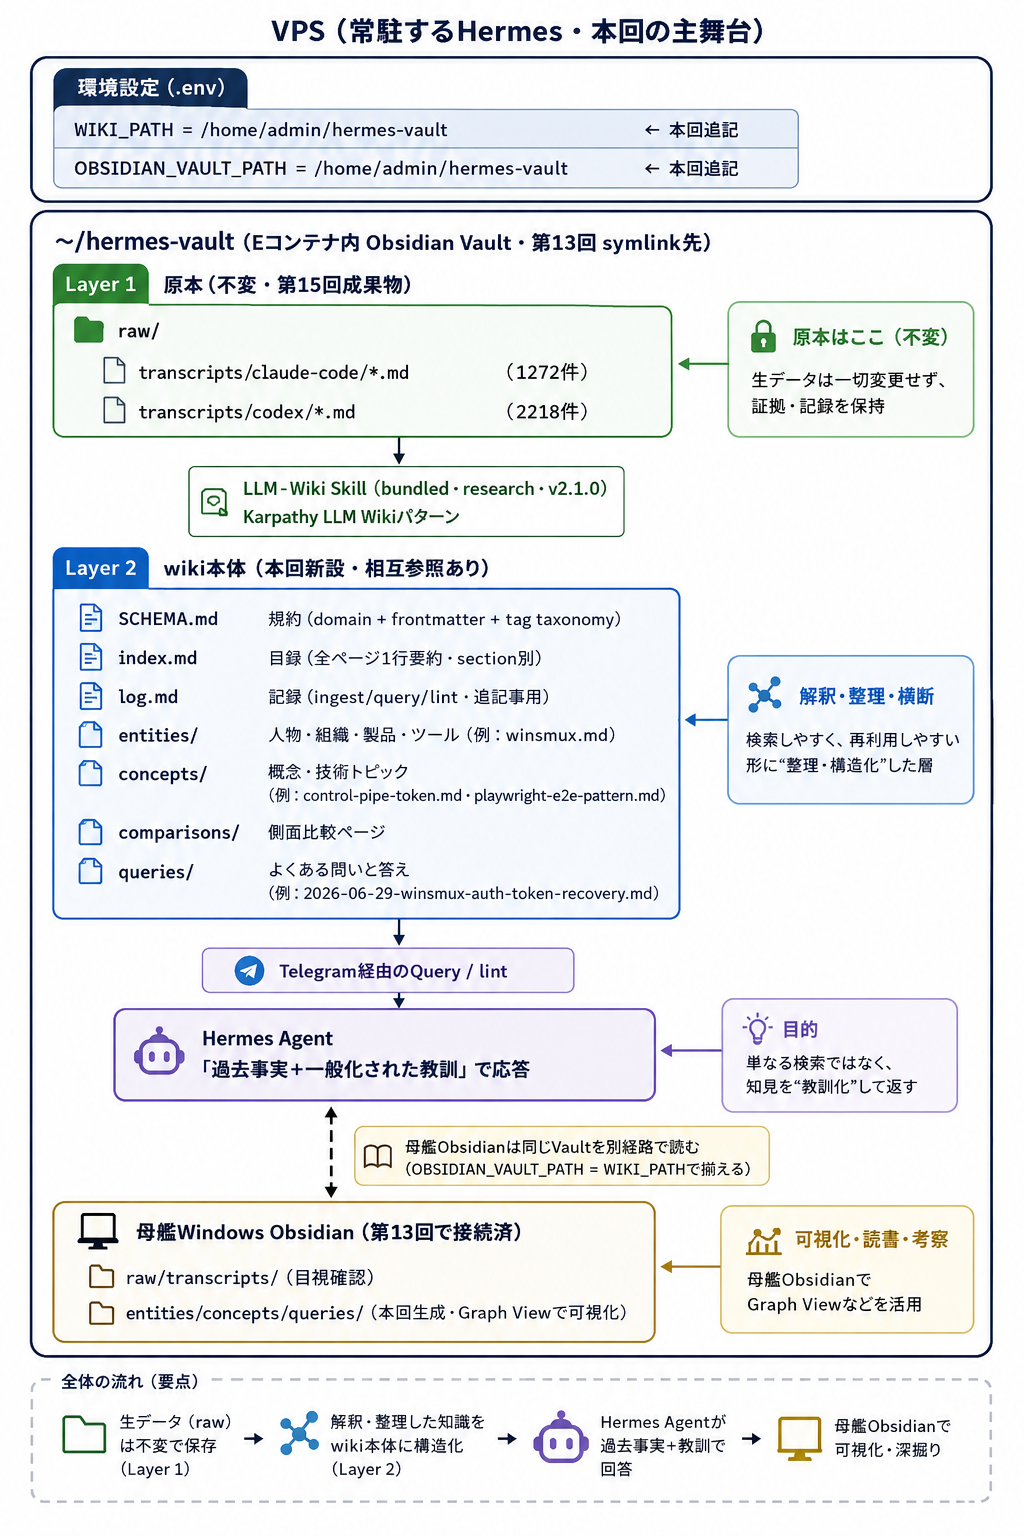
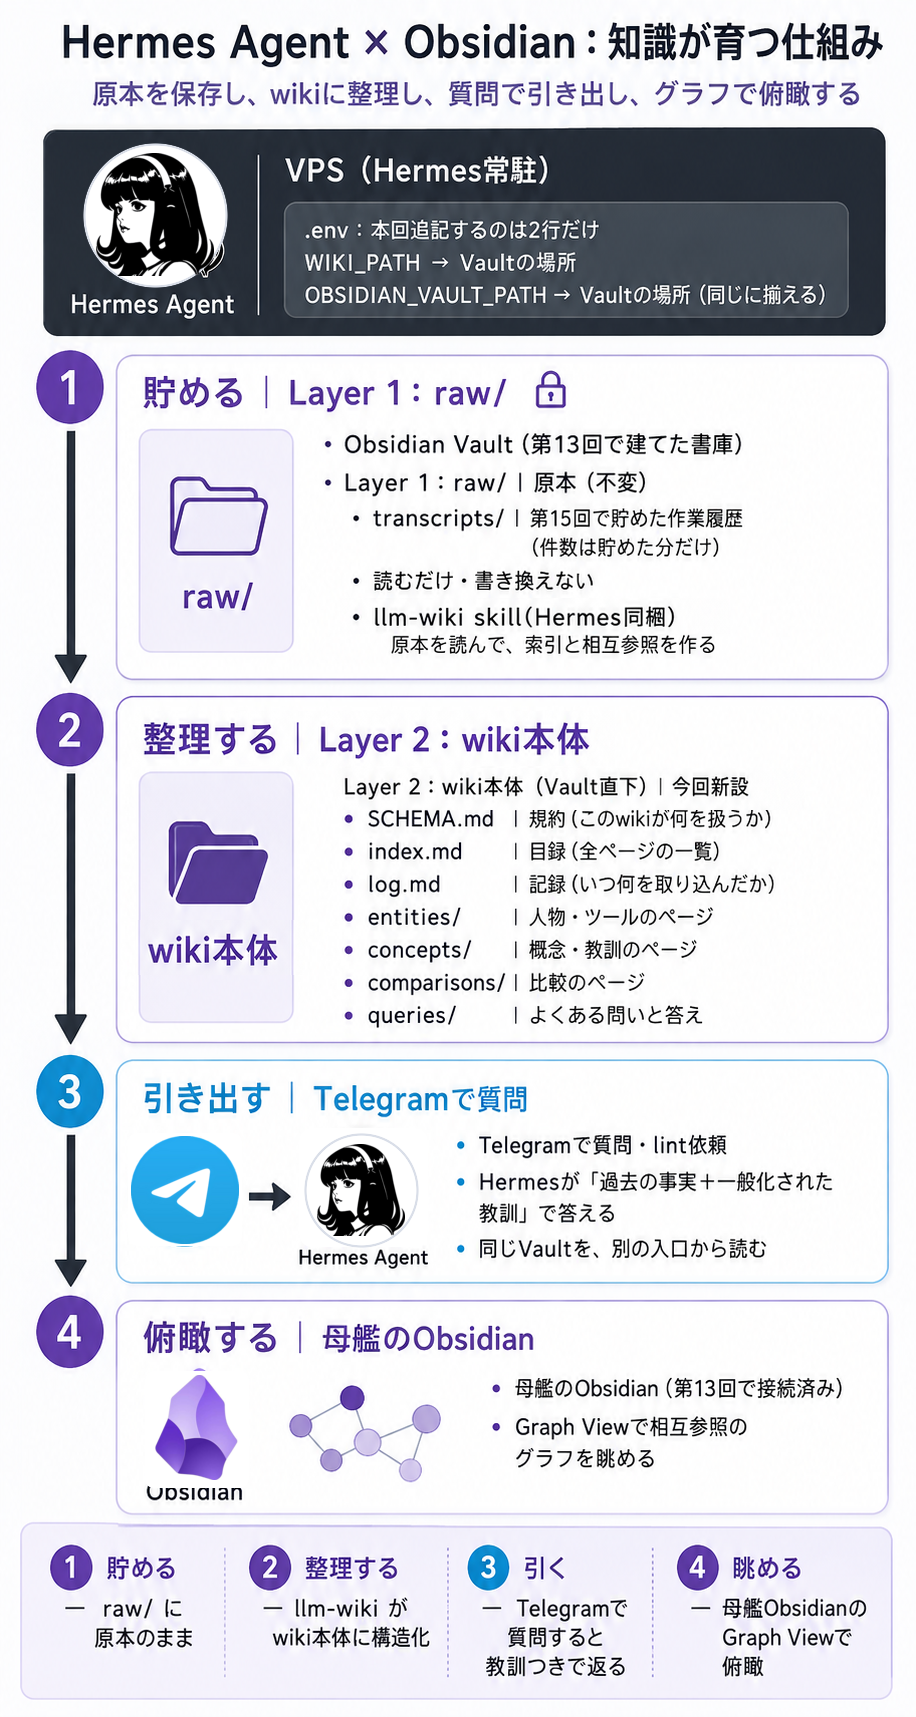
ep16: replace architecture diagram with 4-step version and update caption

diff --git a/articles/hermes-vps-16-secondbrain.md b/articles/hermes-vps-16-secondbrain.md
@@ -135,9 +135,9 @@ Karpathy氏が説明していたのは、次のような流れだ。Web記事や
 
 本回の作業は第15回と違い、VPS側で完結する。母艦の役目はTelegramでのやり取りと、Obsidianでの目視確認だけだ。raw/transcripts/(第15回の出力)を入力に、llm-wikiがentities/concepts/queries/(本回の出力)を生み出す。
 
-![第16回の統合フロー図。VPS上の.envにWIKI_PATHとOBSIDIAN_VAULT_PATHを本回追記し、~/hermes-vault内でLayer 1(raw/transcripts・不変の原本)からllm-wiki skillを経てLayer 2(SCHEMA.md/index.md/log.md/entities/concepts/comparisons/queries)が育ち、Telegram経由のqueryとlintでHermes Agentが過去事実と一般化された教訓で応答する。母艦WindowsのObsidianが同じVaultを別経路で読んでGraph Viewで可視化する構図](/images/hermes-vps/hermes-vps-16-architecture.png)
+![第16回の構成図「Hermes Agent × Obsidian:知識が育つ仕組み」。VPSに常駐するHermesの.envにWIKI_PATHとOBSIDIAN_VAULT_PATHの2行を追記し、①貯める=Vault配下のLayer 1(raw/)に原本を不変のまま保存、②整理する=llm-wiki skillがVault直下にLayer 2のwiki本体(SCHEMA.md・index.md・log.md・entities/・concepts/・comparisons/・queries/)を新設、③引き出す=Telegramで質問するとHermesが過去の事実と一般化された教訓で答える、④俯瞰する=母艦のObsidianが同じVaultを読んでGraph Viewで相互参照を眺める、の4ステップを示す](/images/hermes-vps/hermes-vps-16-architecture.png)
 
-第15回の構成図は「母艦→Vault→VPSのHermesがraw/を読む」までだった。本回はそのVPS側を拡張する。Vault配下のraw/から、llm-wikiがLayer 2(entities/concepts/queries/)を生み出す。母艦のObsidianは同じVaultを別経路で読むので、Hermesが書いたwikiページはそのまま母艦のGraph Viewに表示される。分業の構図が1枚で見える。
+図の流れは4つだ。①raw/に原本のまま貯める(第15回の成果物)、②llm-wikiがVault直下にwiki本体を作って構造化する(本回)、③Telegramで質問すると教訓つきの答えが返る、④母艦のObsidianのGraph Viewで相互参照を俯瞰する。母艦のObsidianは同じVaultを別経路で読むので、Hermesが書いたwikiページはそのまま母艦のGraph Viewに表示される。分業の構図が1枚で見える。
 
 ## 事前準備:WIKI_PATHの設定とllm-wiki skillの確認
 
